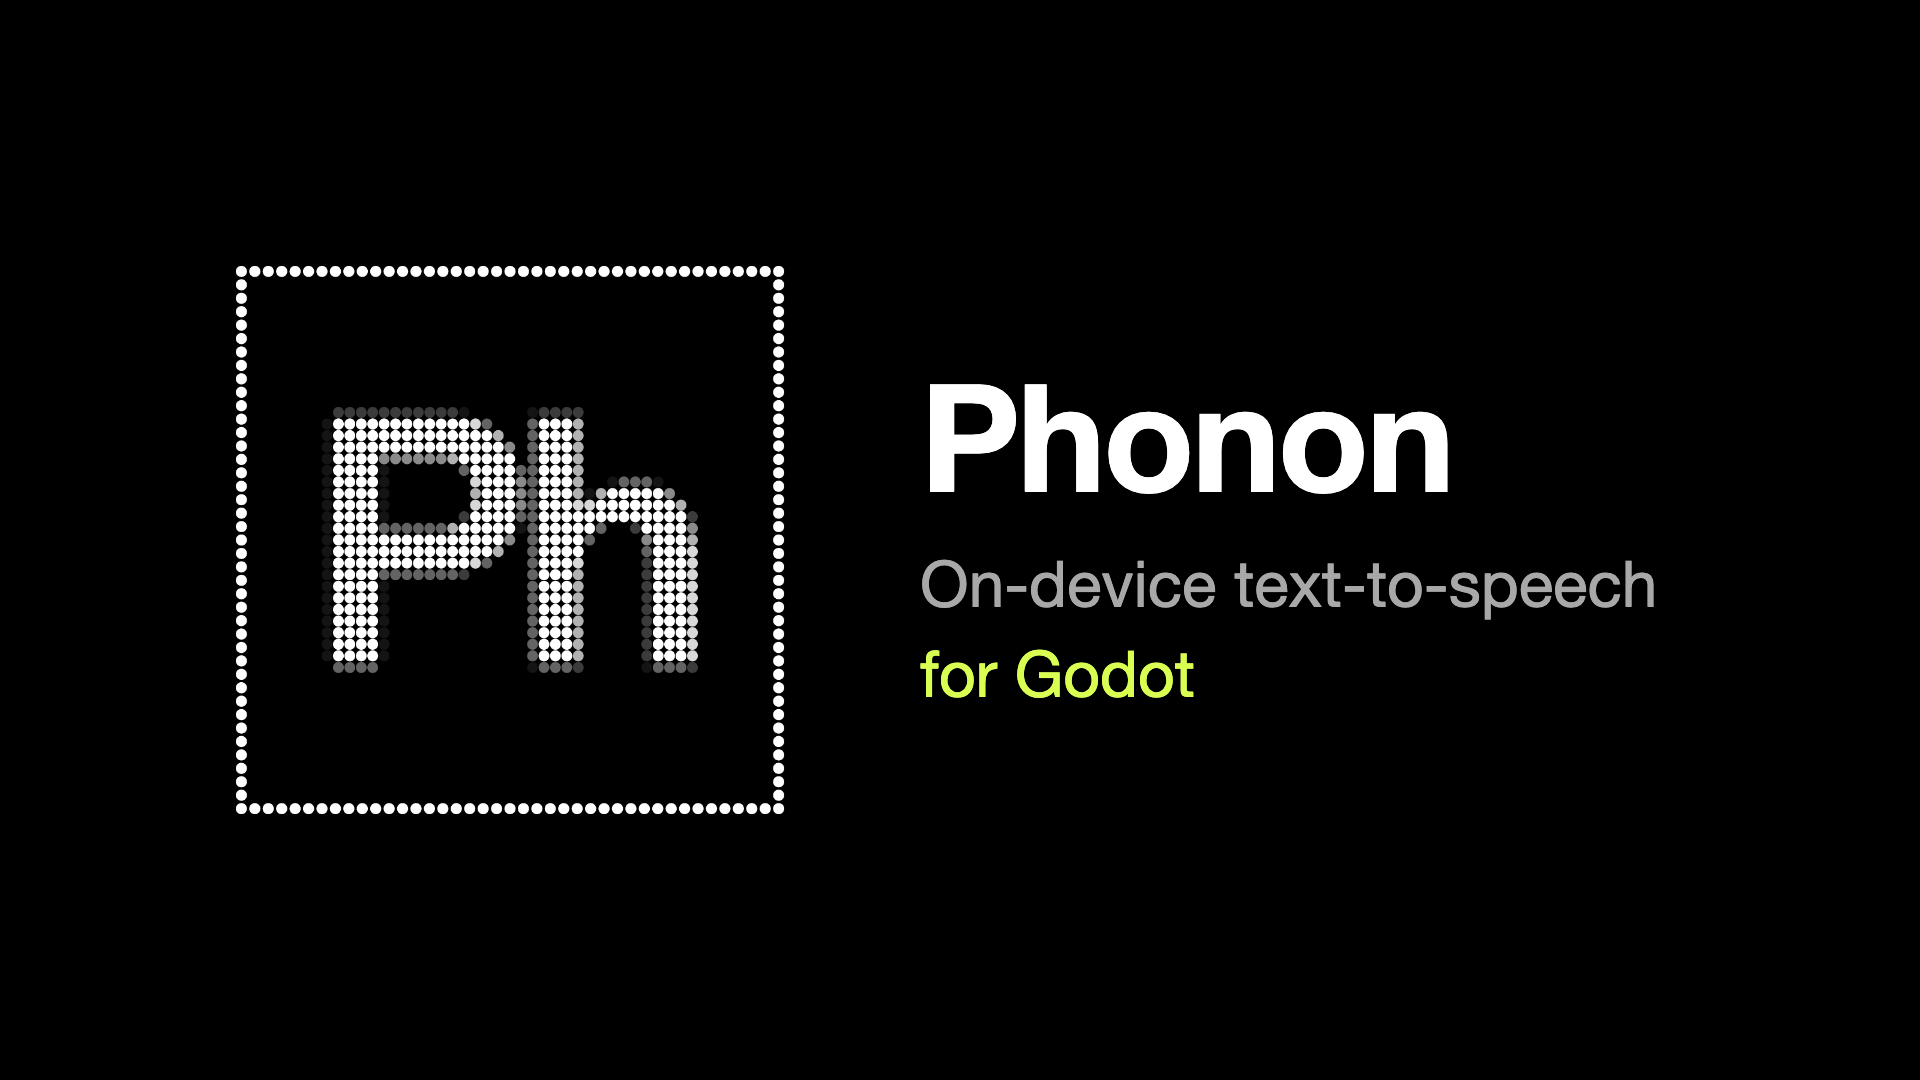
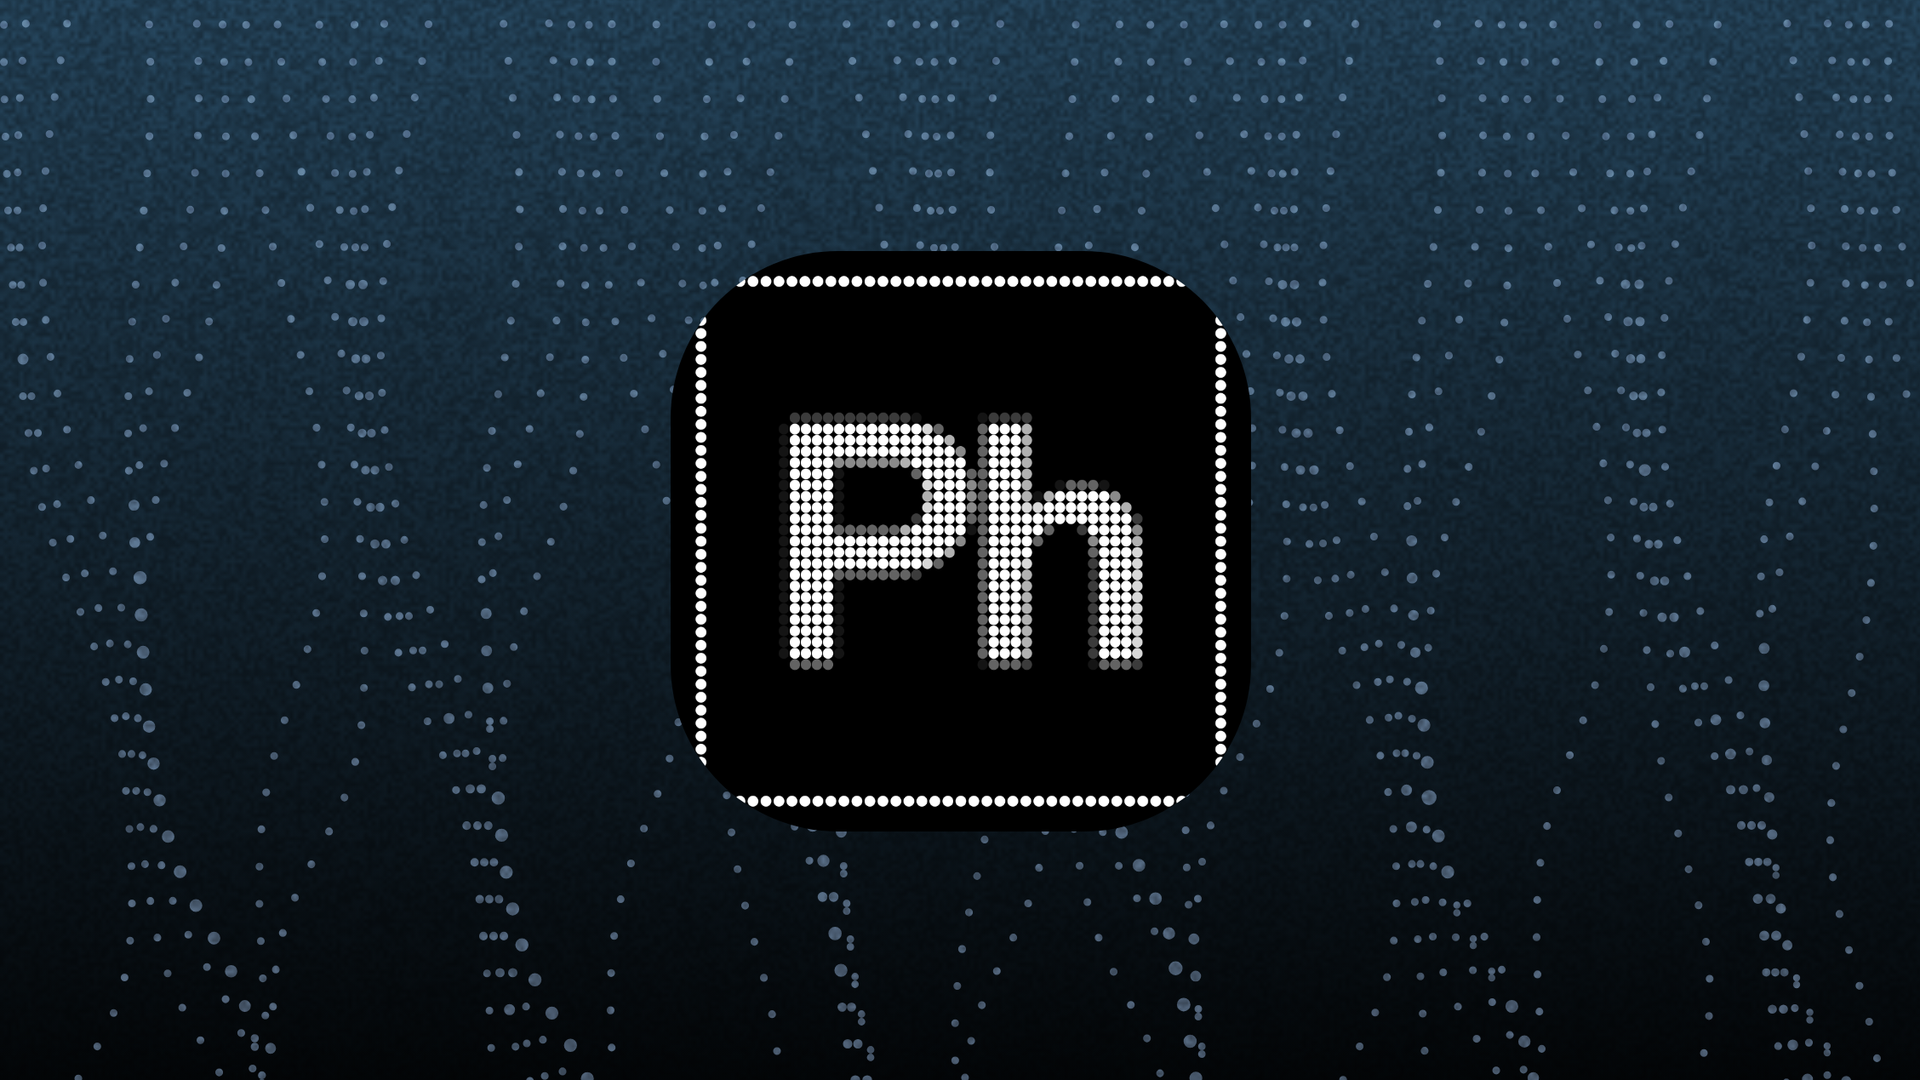
Make the store thumbnail with the design team's gallery template
The Phonon monogram sits in the template's app icon slot on the blue
colourway with the flow pattern, rendered at 2x with the thumbnail
generator's own renderer, then cropped from 3:2 to 16:9 and resized to
1920x1080. thumbnail.html, which drew the old thumbnail, is removed.

diff --git a/store/listing.md b/store/listing.md
@@ -59,13 +59,13 @@ All of them exist on the store already, so the listing shows up in their searche
 
 **AI usage disclosure** (mandatory when AI was used). **Check**: confirm or rewrite this before submitting.
 
-> The plugin's Rust and GDScript code, its documentation, the editor class icon and the thumbnail layout were written with the help of an AI coding assistant (a large language model). They were reviewed and tested by the developers. The Phonon logo is Gradium's own artwork. At run time, the plugin uses Phonon, a neural text-to-speech model, to generate speech.
+> The plugin's Rust and GDScript code, its documentation and the editor class icon were written with the help of an AI coding assistant (a large language model). They were reviewed and tested by the developers. The Phonon logo and the thumbnail's design template are Gradium's own artwork. At run time, the plugin uses Phonon, a neural text-to-speech model, to generate speech.
 
 ## Media tab
 
 | Field | File |
 |---|---|
-| Thumbnail (16:9, required) | `thumbnail.png`, 1920x1080, rendered from `thumbnail.html` and `phonon-monogram.png` |
+| Thumbnail (16:9, required) | `thumbnail.png`, 1920x1080: the Phonon monogram on Gradium's gallery template (blue colourway, flow pattern), rendered with the design team's thumbnail generator and cropped from 3:2 to 16:9 |
 | Screenshot 1 | `screenshot-demo.png`, the demo scene speaking a line |
 | Screenshot 2 | `screenshot-inspector.png`, a PhononSpeaker node in the inspector |
 | Featured image | None |
